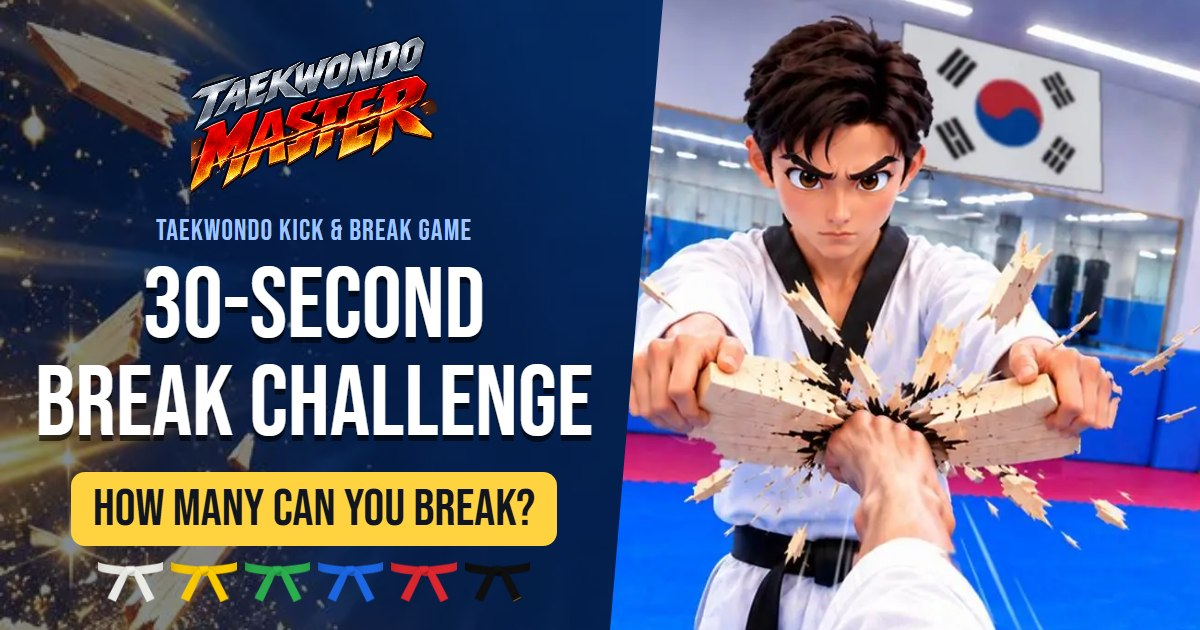
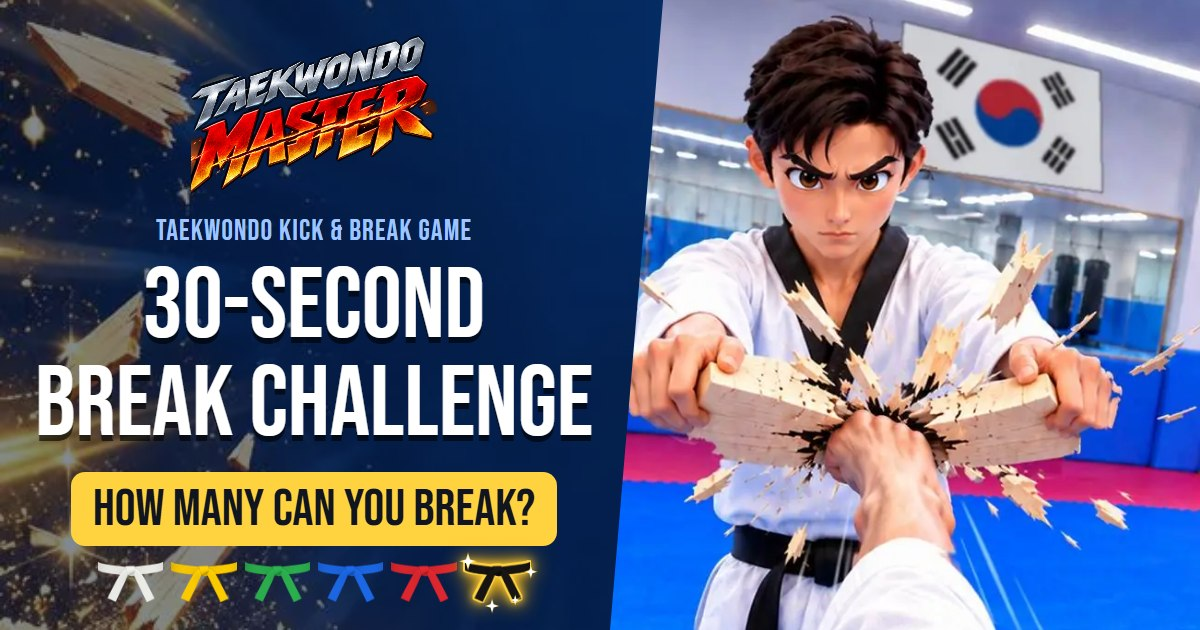
Friend Challenge: gold glowing black belt on link preview and landing belt row

Changed region(s): [[0.37, 0.8444, 0.4625, 0.9952]]

diff --git a/c/page.css b/c/page.css
@@ -47,6 +47,17 @@ html[lang=ko] .btn{font-size:20px;letter-spacing:0}
 .belts div{flex:1;min-width:0;border-radius:8px;padding:5px 0 3px;font-size:12px;color:#dce5f3;background:#5b6b8a55}
 .belts div.on{background:#ffd23f30;outline:2px solid var(--gold);color:var(--gold)}
 .belts img{display:block;width:100%}
+/* 검은띠 = 게임 첫 화면(.ttgold)처럼 금빛으로 반짝. 어두운 바탕에서 모양이 보이게 얇은 금테 추가 */
+.belts .gold{position:relative;display:block}
+.belts .gold img{--edge:drop-shadow(1px 0 0 #ffd23f) drop-shadow(-1px 0 0 #ffd23f) drop-shadow(0 1px 0 #ffd23f) drop-shadow(0 -1px 0 #ffd23f);filter:var(--edge) drop-shadow(0 0 4px #ffb300);animation:glow 1.8s ease-in-out infinite}
+.belts .gold i{position:absolute;pointer-events:none;background:radial-gradient(circle,#fff 0 18%,#ffe27a 34%,#ffd23f00 72%);clip-path:polygon(50% 0,60% 40%,100% 50%,60% 60%,50% 100%,40% 60%,0 50%,40% 40%);animation:twinkle 1.6s ease-in-out infinite}
+.belts .gold i:nth-of-type(1){left:-4.8px;top:-7.7px;width:14.4px;height:14.4px;animation-delay:-0s}
+.belts .gold i:nth-of-type(2){right:-5.8px;top:1.9px;width:10.6px;height:10.6px;animation-delay:-0.4s}
+.belts .gold i:nth-of-type(3){left:0;bottom:22%;width:11.5px;height:11.5px;animation-delay:-0.8s}
+.belts .gold i:nth-of-type(4){right:6.7px;bottom:-2.9px;width:8.6px;height:8.6px;animation-delay:-1.2s}
+@keyframes glow{0%,100%{filter:brightness(1.15) sepia(.35) var(--edge) drop-shadow(0 0 2px #ffd23f) drop-shadow(0 0 5px #ffb300aa)}50%{filter:brightness(1.45) sepia(.6) var(--edge) drop-shadow(0 0 3px #ffd23f) drop-shadow(0 0 9px #ffb300)}}
+@keyframes twinkle{0%,100%{transform:scale(.2) rotate(0);opacity:0}45%{transform:scale(1.15) rotate(45deg);opacity:1}70%{transform:scale(.8) rotate(70deg);opacity:.8}}
+@media (prefers-reduced-motion:reduce){.belts .gold img,.belts .gold i{animation:none}}
 .hint{font-size:13px;color:#6f7c95;line-height:1.5}
 .err{color:#ff6b6b}
 [hidden]{display:none!important}

diff --git a/c/page.js b/c/page.js
@@ -34,7 +34,13 @@
     var el = document.createElement('div'), im = document.createElement('img');
     im.src = '/c/img/belt_' + x[0] + '.webp';
     im.alt = t(x[3], x[2]);
-    el.appendChild(im);
+    if (x[0] === 'black') {   // 검은띠만 금빛 + 별 4개
+      var gold = document.createElement('span');
+      gold.className = 'gold';
+      gold.appendChild(im);
+      for (var j = 0; j < 4; j++) gold.appendChild(document.createElement('i'));
+      el.appendChild(gold);
+    } else el.appendChild(im);
     el.appendChild(document.createTextNode(x[1] + '+'));
     if (i === at) el.className = 'on';
     $('belts').appendChild(el);
